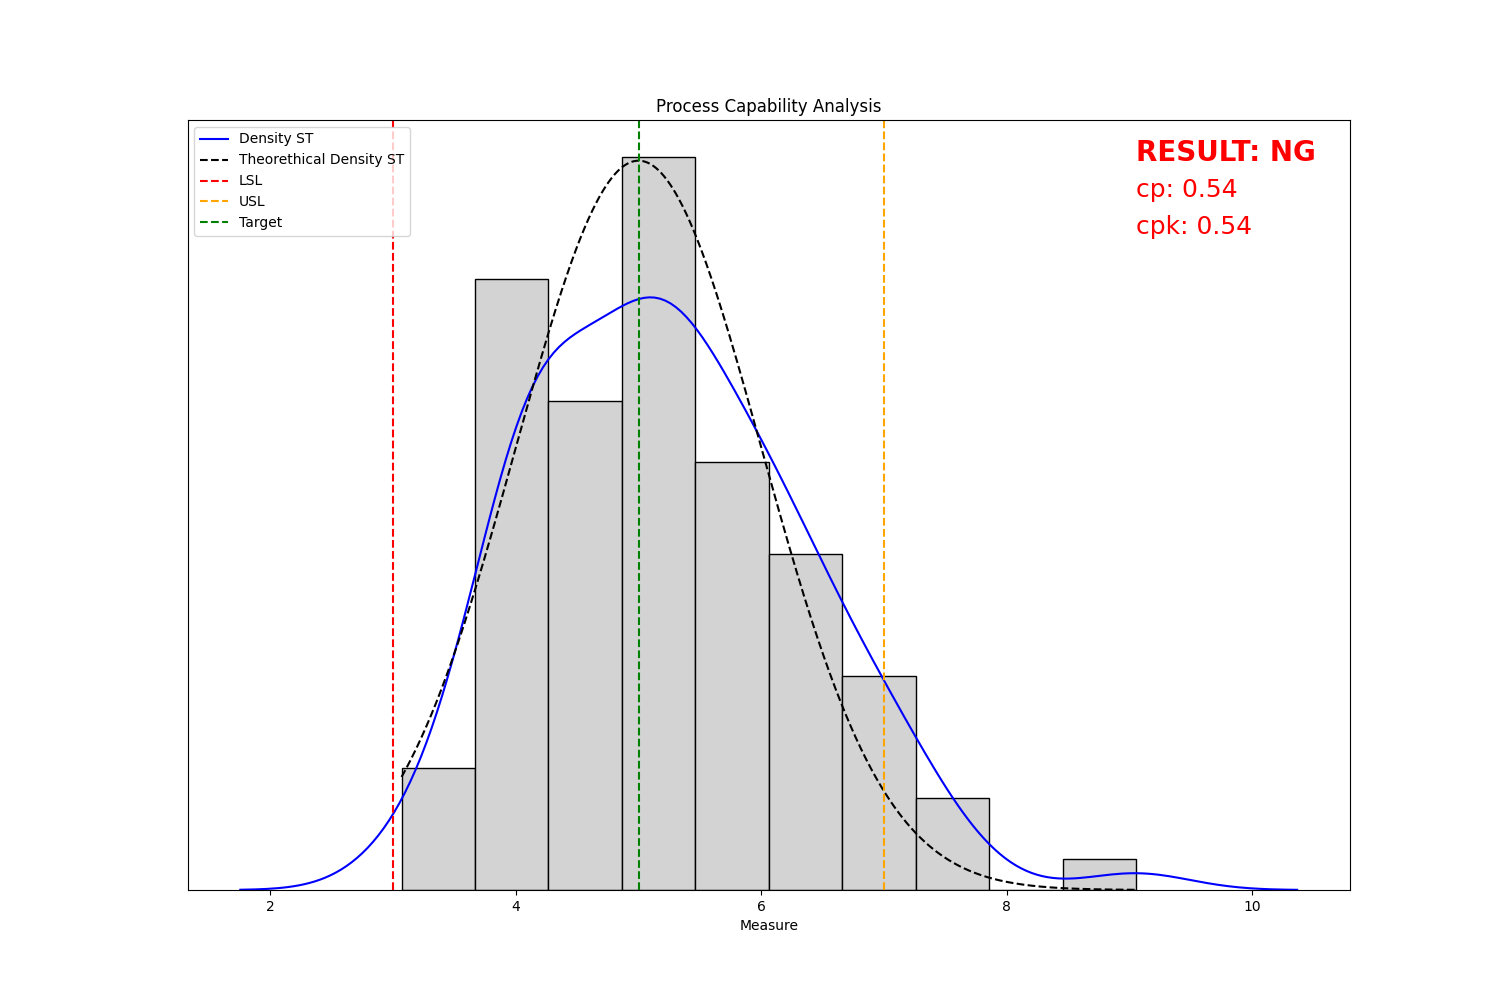
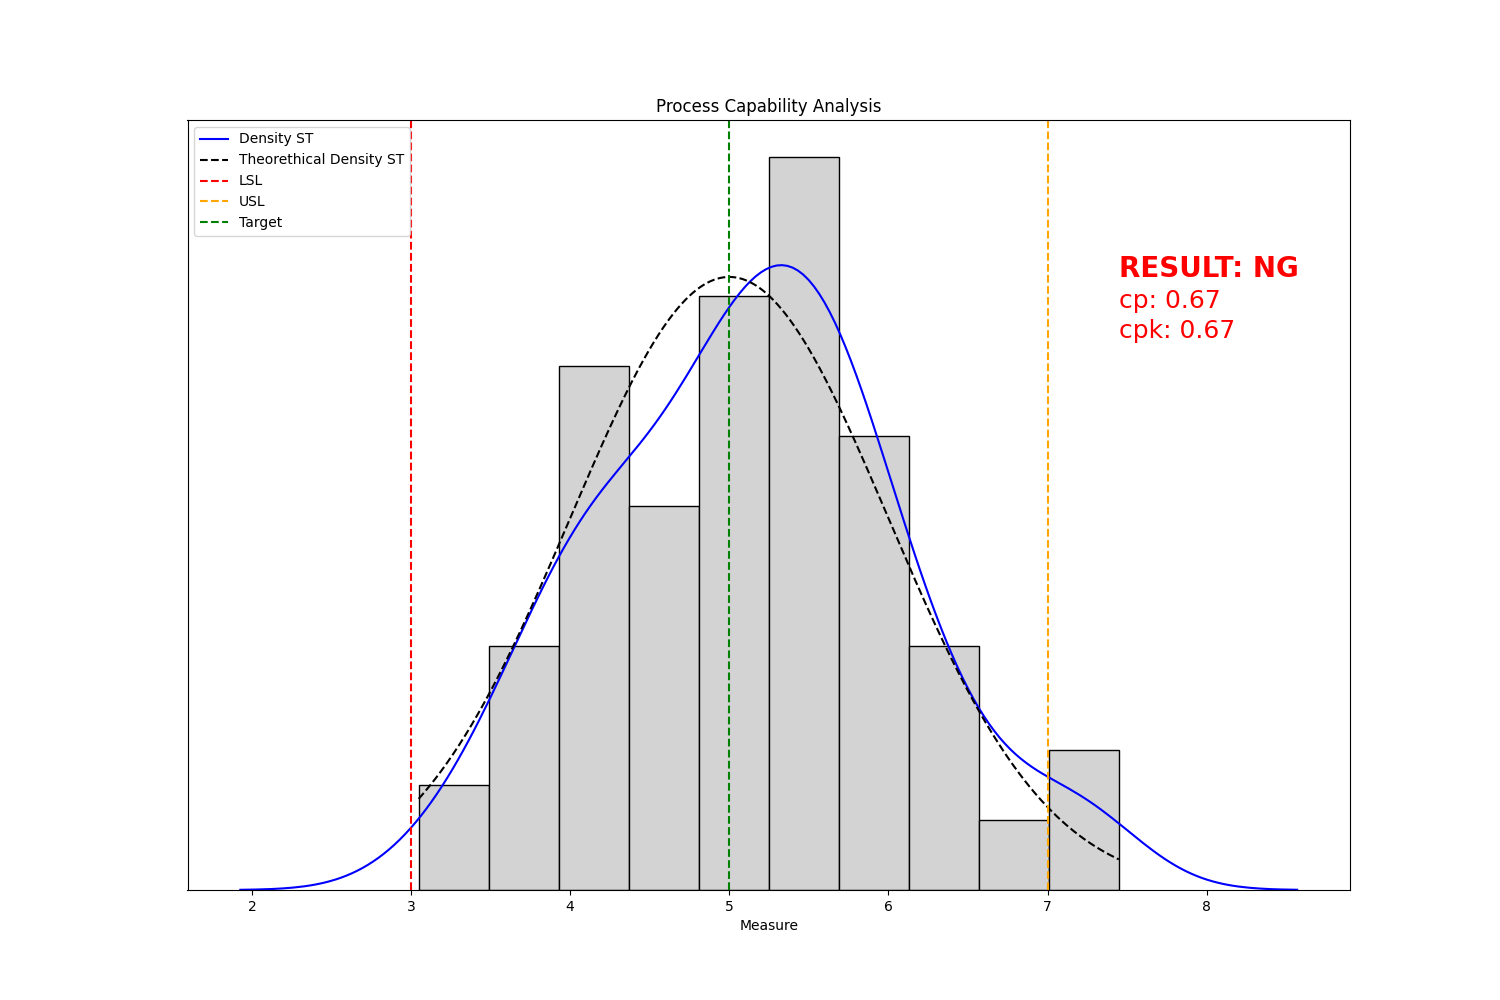
init

Changed region(s): [[0.184, 0.155, 0.828, 0.899], [0.736, 0.124, 0.8893, 0.341]]

diff --git a/process_cap.py b/process_cap.py
@@ -1,0 +1,85 @@
+import pandas as pd
+import numpy as np
+import matplotlib.pyplot as plt
+import seaborn as sns
+from scipy.stats import norm
+
+
+
+def process_capability(data):
+    """calculate process capability 
+    then return fig and some param """
+
+    # Set specification limits
+    target = 5
+    LSL = 3
+    USL = 7
+
+    # Calculate Cp
+    cp = (USL-LSL)/(6*np.std(data))
+
+    # Calculate Cpk
+    cpk = min((USL-data.mean())/(3*data.std()), (data.mean()-LSL)/(3*data.std()))
+
+    # Calculate z-value
+    z = min((USL-data.mean())/(data.std()), (data.mean()-LSL)/(data.std()))
+
+    # Get data summary statistics
+    num_samples = len(data)
+    sample_mean = data.mean()
+    sample_std = data.std()
+    sample_max = data.max()
+    sample_min = data.min()
+    sample_median = np.median(data)
+
+    # Get percentage of data points outside of specification limits
+    pct_below_LSL = len(data[data < LSL])/len(data)*100
+    pct_above_USL = len(data[data > USL])/len(data)*100
+
+    if cp < 1.33:
+        cp_result = 'NG'
+        cp_color = 'red'
+    else:
+        cp_result = 'OK'
+        cp_color = 'green'
+
+    if cpk < 1.33:
+        cpk_result = 'NG'
+        cpk_color = 'red'
+    else:
+        cpk_result = 'OK'
+        cpk_color = 'green'
+
+
+    if cpk_result == 'NG' or cp_result == 'NG':
+        total_result = 'NG'
+        total_result_color = 'red'
+    else:
+        total_result = 'OK'
+        total_result_color = 'green'
+
+    # Generate probability density function 
+    x = np.linspace(min(data), max(data), 1000)
+    y = norm.pdf(x, loc=5, scale=1)  
+    
+    # Plot histogram for data along with probability density functions and specification limits
+    fig = plt.figure(figsize=(15,10))
+    plt.hist(data, color="lightgrey", edgecolor="black", density=True)
+    sns.kdeplot(data, color="blue", label="Density ST")
+    plt.plot(x, y, linestyle="--", color="black", label="Theorethical Density ST")
+    plt.axvline(LSL, linestyle="--", color="red", label="LSL")
+    plt.axvline(USL, linestyle="--", color="orange", label="USL")
+    plt.axvline(target, linestyle="--", color="green", label="Target")
+    plt.title('Process Capability Analysis')
+    plt.xlabel("Measure")
+    plt.ylabel("")
+    plt.yticks([])
+  
+    #plt.axis([min(x)-1, max(x)+1,0, max(y)+0.1]) #min max axis and min max y axis
+    plt.legend(loc='upper left')
+    plt.text(max(x), max(y), f'RESULT: {total_result}',color=total_result_color, fontsize=20,weight="heavy")
+    plt.text(max(x), max(y)-0.02, f'cp: {round(cpk,2)}',color=cpk_color, fontsize=18)
+    plt.text(max(x), max(y)-0.04, f'cpk: {round(cpk,2)}',color=cpk_color, fontsize=18)
+    #plt.savefig("export/process_capability.png")
+    #plt.show()
+    return fig

diff --git a/main_api.py b/main_api.py
@@ -1,0 +1,35 @@
+# %% [markdown]
+# #### FastAPI
+
+# %%
+#!pip install fastapi
+from fastapi import FastAPI
+
+app = FastAPI()
+
+@app.get("/test")
+def test():
+    """print hello world"""
+    return {"result": "hello world"}
+
+
+@app.get("/test2")
+def test2():
+    """print hello world"""
+    return {"result": "hello world2"}
+
+@app.get("/cp")
+def process_cap():
+    """return image process cap"""
+    from process_cap import process_capability
+    from fastapi.responses import StreamingResponse
+    from io import BytesIO
+
+    import numpy as np
+
+    data = np.random.normal(loc=5,scale=1,size=100)
+    filtered_image = BytesIO()
+    fig = process_capability(data)
+    fig.savefig(filtered_image, format="JPEG")
+    filtered_image.seek(0)
+    return StreamingResponse(filtered_image, media_type="image/jpeg")
